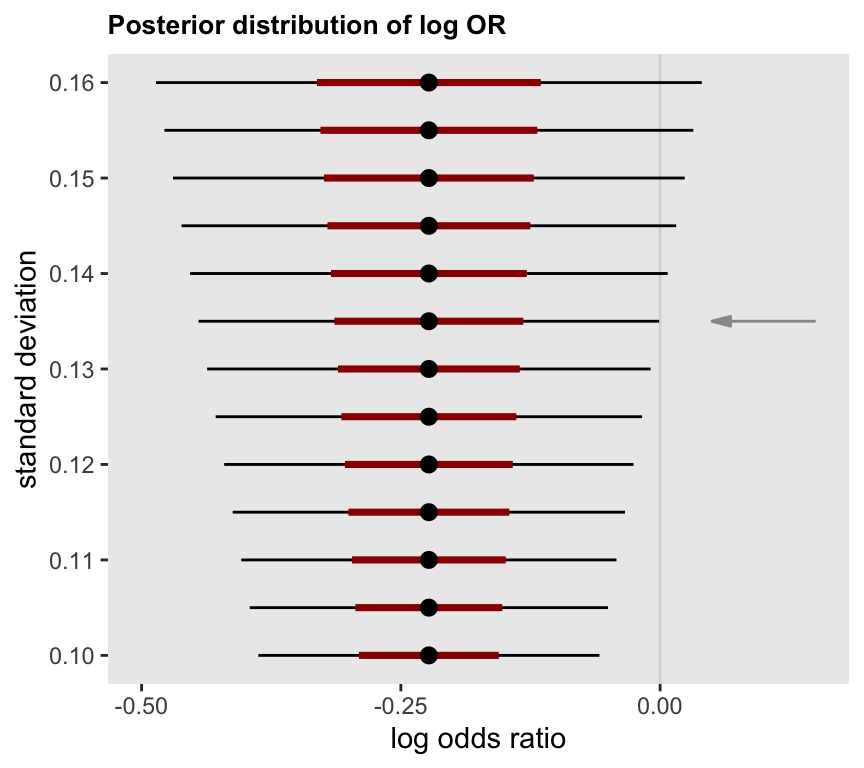
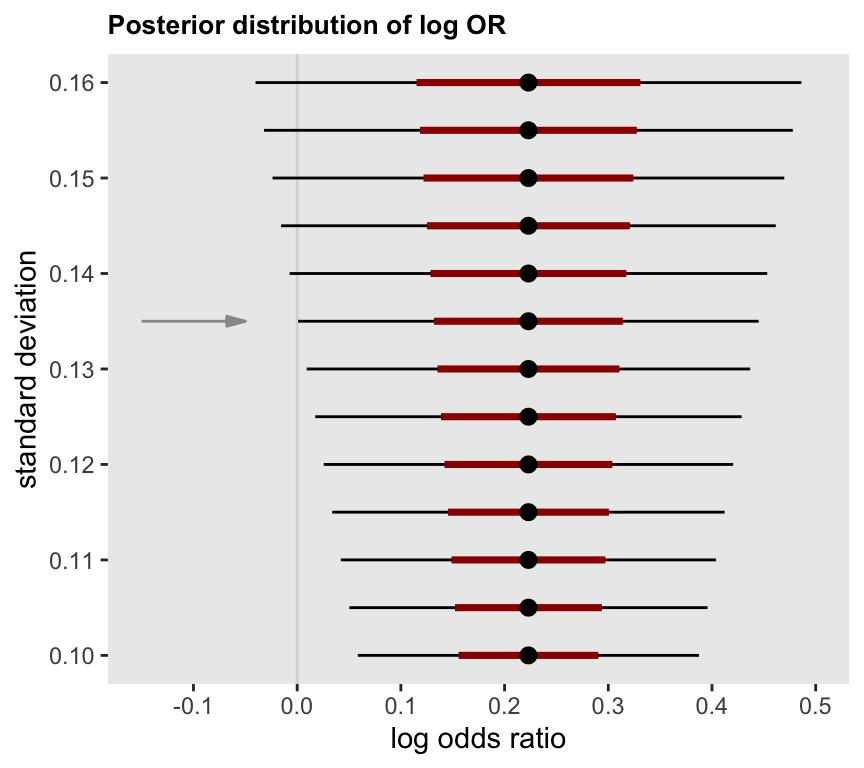
Updating draft

diff --git a/content/post/2021-10-26-sample-size-requirements-for-a-factorial-study-design/index.en.html b/content/post/2021-10-26-sample-size-requirements-for-a-factorial-study-design/index.en.html
@@ -7,6 +7,7 @@ categories: []
 tags:
   - R
   - Bayesian model
+  - Stan
 type: ''
 subtitle: ''
 image: ''
@@ -16,28 +17,49 @@ draft: true
 <script src="{{< blogdown/postref >}}index.en_files/header-attrs/header-attrs.js"></script>
 
 
-<p>We used simulation studies to determine the number of ED sites to be included in the study. Since the precision of the posterior distribution determines the range of probable effect sizes, we used the expected standard deviation (<span class="math inline">\(\sigma\)</span>) as the criterion for sample size selection.</p>
-<p>To determine the target level of precision, we assessed the width of the posterior distributions under different standard deviations. In particular, we identified the posterior probabilities with a mean OR = 0.80 (log OR = -0.22) where <span class="math inline">\(P(log(OR) &lt; 0) \ge 0.95\)</span>. Based on this, our target standard deviation was 0.135, as can be seen in the figure. The right hand side of each interval in the figure represents the 95th percentile of the distribution. For those distributions where <span class="math inline">\(\sigma \le 0.135\)</span>, <span class="math inline">\(P(log(OR) &lt; 0) \ge 0.95.\)</span></p>
-<pre class="r"><code>library(data.table)
-library(ggplot2)</code></pre>
-<p><img src="{{< blogdown/postref >}}index.en_files/figure-html/unnamed-chunk-2-1.png" width="432" /></p>
-<pre class="r"><code>load(&quot;code/post_ss.rda&quot;)
-
-res &lt;- rbindlist(res)[var == &quot;lOR[4]&quot;, .(n, sd)]
-sum &lt;- res[, .(sd = mean(sd)), keyby = n]
-
-ggplot() +
-  geom_hline(yintercept = 0.135, size = .5, color = &quot;grey80&quot;) +
-  geom_jitter(data = res, aes(x = n, y = sd), width = .5, color = &quot;grey75&quot;, size = .4) +
-  geom_line(data = sum, aes(x = n, y = sd), size = 1) +
-  scale_y_continuous(limits = c(0.11, 0.18), breaks = seq(0.11, 0.18, by = 0.01), 
-                     name =&quot;sd of posterior distribution&quot;) +
-  theme(panel.grid = element_blank(),  
-        plot.title = element_text(size = 10, face = &quot;bold&quot;)) +
-  ggtitle(&quot;Distribution of standard deviations&quot;)</code></pre>
-<p><img src="{{< blogdown/postref >}}index.en_files/figure-html/unnamed-chunk-3-1.png" width="480" /></p>
+<p>How do you determine sample size when the goal of a study is <em>not</em> to conduct a null hypothesis test but to provide an <em>estimate</em> of multiple effect sizes? I needed to get a handle on this for a recent grant submission, which I’ve been writing about over the past month, <a href="https://www.rdatagen.net/post/2021-09-28-analyzing-a-factorial-trial-with-a-bayesian-model/" target="_blank">here</a> and <a href="" target="_blank">here</a>. (I provide a little more context for all of this in those earlier posts.) The statistical inference in the study will be based the estimated posterior distributions from a Bayesian model, so it seems like we’d like those distributions to be as informative as possible. This means that we need to set the sample size large enough to reduce the dispersion of those distributions to a helpful level.</p>
+<p>Once I determined that I wanted to target the variance of the posterior distributions, it was just a matter of figuring out what that target should be and then simulate data to see what sample sizes could give us that target. In short, I used the expected standard deviation (<span class="math inline">\(\sigma\)</span>) as the criterion for sample size selection.</p>
+<div id="setting-the-target" class="section level3">
+<h3>Setting the target</h3>
+<p>To determine the target level of precision, I assessed the width of the posterior distributions under different standard deviations. In particular, I identified the posterior probabilities with a mean OR = 1.25 (log OR = 0.22) where <span class="math inline">\(P(log(OR) &gt; 0) \ge 0.95\)</span>. The target OR is somewhat arbitrary, but seemed like a meaningful effect size based on discussions with my collaborators.</p>
+<p>I did a quick search for the standard deviation that would yield a 95% threshold at or very close to 0. That is, 95% of the distribution should lie to the right of 0. Assuming that the target posterior distribution will be approximately <em>normal</em> with a mean of 0.22, I used the <code>qnorm</code> function to find the 95% thresholds for range of standard deviations between 0.10 and 0.15.</p>
+<pre class="r"><code>sd &lt;- seq(.15, .10, by = -0.005)
+cbind(sd, threshold = round(qnorm(.05, .22 , sd = sd), 3))</code></pre>
+<pre><code>##          sd threshold
+##  [1,] 0.150    -0.027
+##  [2,] 0.145    -0.019
+##  [3,] 0.140    -0.010
+##  [4,] 0.135    -0.002
+##  [5,] 0.130     0.006
+##  [6,] 0.125     0.014
+##  [7,] 0.120     0.023
+##  [8,] 0.115     0.031
+##  [9,] 0.110     0.039
+## [10,] 0.105     0.047
+## [11,] 0.100     0.056</code></pre>
+<p>It looks like the target standard deviation should be close to 0.135, which is also apparent from the plot of the 95% intervals centered at 0.22:</p>
+<p><img src="{{< blogdown/postref >}}index.en_files/figure-html/unnamed-chunk-3-1.png" width="432" /></p>
+</div>
+<div id="using-simulation-to-establish-sample-size" class="section level3">
+<h3>Using simulation to establish sample size</h3>
+<p>The final step was to repeatedly simulate data sets using different sample size assumptions, fitting models, and estimating the posterior distribution standard deviations for associated with each data set (and sample size). I evaluated sample sizes ranging from 400 to 650 individuals, increasing by 50. For each sample size, I generated 250 data sets, for a total of 1,500 data sets and model estimates. Given that each model estimation is quite resource intensive, I generated all the data and estimated the models using a high performance computing environment that provided me with 90 nodes and 4 processors on each node so that the Bayesian MCMC proccess could all run in parallel - so parallelization of parallel processes. In total, this took about 2 hours to run.</p>
+<p>I am including the code in the <a href="#addendum">addendum</a> below. The structure is similar to what I have <a href="https://www.rdatagen.net/post/a-frequentist-bayesian-exploring-frequentist-properties-of-bayesian-models/" target="_blank">described</a> in the past on how one might do these types of explorations with simulated data and Bayesian modelling.</p>
+<p>Below is the output for a single data set to provide an example of the data being generated by the simulations. We have estimated 7 log-odds ratios (see <a href="" target="_blank">here</a> for an explanation of why there are 7), and the simulation returns a summary of the posterior distribution for each: selected quantiles and the standard deviation.</p>
+<pre><code>##      n    var p0.025 p0.25  p0.5 p0.75 p0.975    sd
+## 1: 650 lOR[1]  0.113 0.269 0.354 0.441  0.603 0.126
+## 2: 650 lOR[2]  0.410 0.569 0.652 0.735  0.892 0.123
+## 3: 650 lOR[3]  0.427 0.585 0.667 0.752  0.906 0.123
+## 4: 650 lOR[4]  0.367 0.526 0.608 0.691  0.851 0.122
+## 5: 650 lOR[5]  0.436 0.592 0.675 0.757  0.913 0.122
+## 6: 650 lOR[6]  0.703 0.861 0.945 1.028  1.180 0.122
+## 7: 650 lOR[7]  0.722 0.886 0.969 1.054  1.214 0.125</code></pre>
+<p>The plot below shows the estimated standard deviations for a single log-odds ratio (in this case <span class="math inline">\(\lambda_4\)</span>), with a point for each of the 1,500 simulate data sets. At 550 subjects, the mean standard deviation (represented by the curve) is starting to get close to 0.135, but there is still quite a bit of uncertainty. To be safe, we might want to set the upper limit for the study to be 600 patients, because we are quite confident that the standard deviation will be low enough to meet our criteria (almost 90% of the standard deviations from the simulations were below 0.135, though at 650 patients that proportion was over 98%).</p>
+<p><img src="{{< blogdown/postref >}}index.en_files/figure-html/unnamed-chunk-5-1.png" width="480" /></p>
+<p><a name="addendum"></a></p>
+</div>
 <div id="addendum" class="section level3">
 <h3>Addendum</h3>
+<p>Something here about the added uncertainty induced by drawing effect sizes from a distribution.</p>
 <pre class="r"><code>library(cmdstanr)
 library(simstudy)
 library(data.table)
